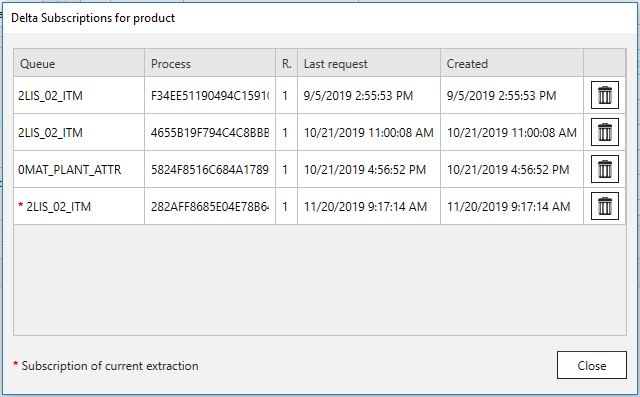
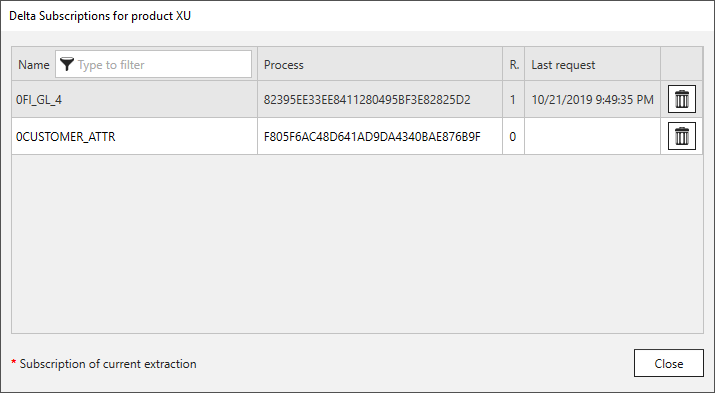
subscriptions screenshot

Changed region(s): [[0.0, 0.0, 1.0, 1.0]]

diff --git a/_includes/_content/de/odp/odp-settings-subscriptions.md b/_includes/_content/de/odp/odp-settings-subscriptions.md
@@ -1,9 +1,13 @@
 
 ### Abonnements
 Um Informationen über den Abonnenten zu erhalten, klicken Sie auf **Show Subscriptions / Show active subscriptions** oben im Fenster “Define data source for SAP ODP”:
-<br/>
-![Subscriptions](/img/content/odp/odp-settings-subscriptions.png){:class="img-responsive"}<br/>
-**Tipp:**  Die Informationen, die Im Fenster “Delta Subscriptions for product” angezeigt werden, können auch in der SAP-Transaktion *ODQMON* angeschaut werden.<br/>
+
+![Subscriptions](/img/content/odp/odp-settings-subscriptions.png){:class="img-responsive"}
+
+{: .box-tip }
+**Tipp:**  Die Informationen, die Im Fenster “Delta Subscriptions for product” angezeigt werden, können auch in der SAP-Transaktion *ODQMON* angeschaut werden.
+
+
 ![ODP-Abonnent](/img/content/odp/odp-settings-02.png){:class="img-responsive"}<br/>
 
 Spaltenbezeichnung | Erklärung
@@ -17,3 +21,7 @@ Created | Erstellungszeitstempel
 
 Um das Abonnement zu löschen, klicken Sie auf das Mülltonnensymbol auf der rechten Seite des Fensters. 
 
+********
+#### Weiterführende Links
+- [1931427 - ODP Data Replication API 2.0](https://launchpad.support.sap.com/#/notes/1931427)
+- [1560241 - Release of DataSources for ODP data replication API](https://launchpad.support.sap.com/#/notes/1560241)

diff --git a/_includes/_content/en/odp/odp-settings-subscriptions.md b/_includes/_content/en/odp/odp-settings-subscriptions.md
@@ -6,21 +6,25 @@ To display more details about the subscriber process, depending on the product, 
 ![Subscriptions](/img/content/odp/odp-settings-subscriptions.png){:class="img-responsive"}
 <br/>
 
-<br/>
+{: .box-tip }
 **Tip:** The information displayed in the "Delta Subscriptions for product" window can also be viewed in SAP transaction *ODQMON*.  
-<br/>
+
 
 ![ODP Subscriber](/img/content/odp/odp-settings-02.png){:class="img-responsive"}
 <br/>
 
 Column name | Explanation
 ------------| -------------
-Queue | Technical name of all subscriptions of a specific Theobald Software Xtract product (e.g., Xtract Universal).
+Name | Technical name of all subscriptions of a specific Theobald Software Xtract product (e.g., Xtract Universal)
 Process | Technical name of a subscription
 R. (number of requests) | Number of executed delta requests
 Last request | Timestamp of the last delta request 
-Created | Timestamp of the init request 
 
 
 To delete a subscription click on the dustbin icon on the right side of the window.
+
+********
+#### Related Links
+- [1931427 - ODP Data Replication API 2.0](https://launchpad.support.sap.com/#/notes/1931427)
+- [1560241 - Release of DataSources for ODP data replication API](https://launchpad.support.sap.com/#/notes/1560241)
 

diff --git a/_includes/_content/de/odp/odp-introduction.md b/_includes/_content/de/odp/odp-introduction.md
@@ -1,4 +1,4 @@
-## Was ist ODP? ##
+### Was ist ODP?
 
 Die ODP-Komponente kann verwendet werden, um Daten über das SAP Operational Data Provisioning (ODP) Framework zu extrahieren. 
 
@@ -31,7 +31,7 @@ Nachfolgend finden Sie den in unserem Demo BW/4 HANA-System verfügbaren ODP-Kon
 <br/>
 ![ODP Provider-Kontext aus einem BW/4 HANA-System](/img/content/odp/odp-component-context-bw.png){:class="img-responsive"}
 
-## Technische Voraussetzungen ##
+### Technische Voraussetzungen
 
 Um unsere ODP Komponente nutzen zu können, müssen einige Voraussetzungen auf SAP-Seite gegeben sein. SAP hat eine Reihe von Hinweisen veröffentlicht, die Fragestellungen rund um das Thema ODP behandeln. Diese Hinweise, sofern Sie das SAP System betreffen, aus dem extrahiert wird, gelten idR auch für die Nutzung unserer ODP Komponente.
 

diff --git a/content/_de/xtract-is/odp/odp-settings.md b/content/_de/xtract-is/odp/odp-settings.md
@@ -8,12 +8,14 @@ parent: odp
 permalink: /:collection/:path
 weight: 6
 lang: de_DE
+progressstate: 5
 ---
 
 {% include _content/de/odp/odp-settings-update_mode.md %} 
 {% include _content/de/odp/odp-settings-subscriptions.md %} 
 {% include _content/de/odp/odp-settings-filtering.md %}
 {% include _content/de/odp/odp-settings-parameters.md %} <br>
+
 #### Parameter in SSIS anschauen
 Parameter erscheinen als Eigenschaften des Xtract ODP-Objekts sowie des SSIS-Datenflusses (Data Flow). Die Parameter und die Eigenschaften werden zur Laufzeit des SSIS-Pakets mit Hilfe von Standard-SSIS-Funktionen wie Ausdrücken, Variablen usw. gefüllt. 
 ![ODP-Eigenschaften](/img/content/xis/odp_parameter.png){:class="img-reagierend"}

diff --git a/content/_en/xtract-is/odp/odp-settings.md b/content/_en/xtract-is/odp/odp-settings.md
@@ -8,12 +8,14 @@ parent: odp
 permalink: /:collection/:path
 weight: 6
 lang: en_GB
+progresstate: 5
 ---
 
 {% include _content/en/odp/odp-settings-update_mode.md %} 
 {% include _content/en/odp/odp-settings-subscriptions.md %}
 {% include _content/en/odp/odp-settings-filtering.md %} 
 {% include _content/en/odp/odp-settings-parameters.md %} 
+
 ### To display parameters within SSIS
 Parameters appear as properties of the Xtract ODP object as well as the SSIS Data Flow. The parameters and properties be populated at SSIS package runtime using standard SSIS functionality, such as expressions, variables, etc. 
 ![ODP properties](/img/content/xis/odp_parameter.png){:class="img-responsive"}

diff --git a/content/_de/xtract-universal/odp/odp-settings.md b/content/_de/xtract-universal/odp/odp-settings.md
@@ -8,6 +8,7 @@ parent: Operational Data Provisioning (ODP)
 permalink: /:collection/:path
 weight: 6
 lang: de_DE
+progressstate: 5
 ---
 
 {% include _content/de/odp/odp-settings-update_mode.md %} 

diff --git a/content/_en/xtract-universal/odp/odp-settings.md b/content/_en/xtract-universal/odp/odp-settings.md
@@ -8,6 +8,7 @@ parent: Operational Data Provisioning (ODP)
 permalink: /:collection/:path
 weight: 6
 lang: en_GB
+progresstate: 5
 ---
 
 {% include _content/en/odp/odp-settings-update_mode.md %} 

diff --git a/content/_de/board-connector/odp/odp-settings.md b/content/_de/board-connector/odp/odp-settings.md
@@ -8,6 +8,7 @@ parent: odp
 permalink: /:collection/:path
 weight: 5
 lang: de_DE
+progresstate: 5
 ---
 
 {% include _content/de/odp/odp-settings-update_mode.md %} 
